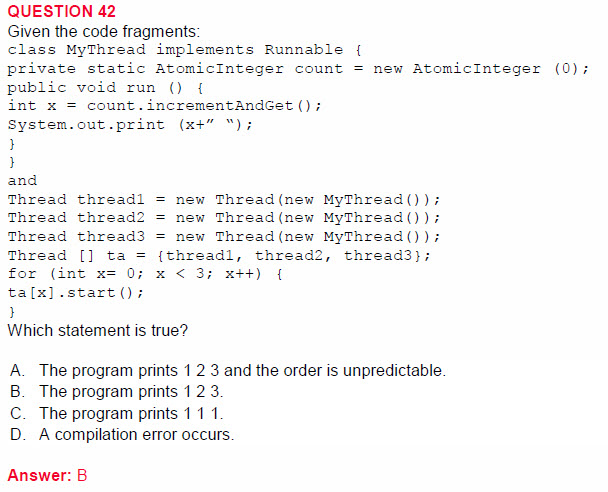
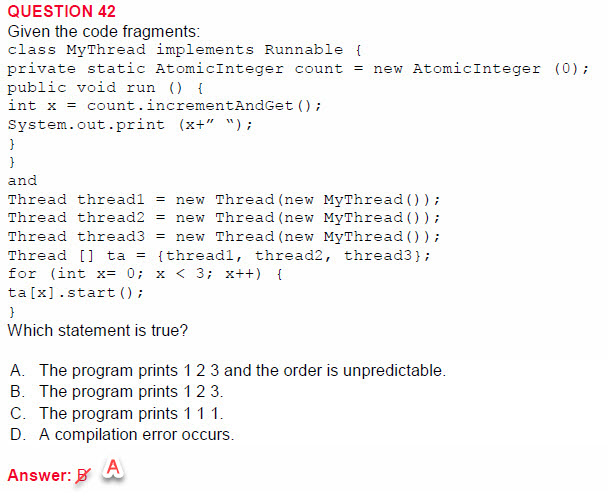
Commit 12

diff --git a/src/main/java/com/wealth/certificate/dumps_1z0_809_ps/question014/Emp.java b/src/main/java/com/wealth/certificate/dumps_1z0_809_ps/question014/Emp.java
@@ -1,0 +1,39 @@
+package com.wealth.certificate.dumps_1z0_809_ps.question014;
+
+import java.util.Arrays;
+import java.util.Comparator;
+import java.util.List;
+import java.util.stream.Collectors;
+
+public class Emp
+{
+	String fName;
+	String lName;
+	public Emp (String fn, String ln) {
+		fName = fn;
+		lName = ln;
+	}
+	public String getfName() { return fName; }
+	public String getlName() { return lName; }
+	
+	public static void main(String[] args)
+	{
+		List<Emp> emp = Arrays.asList (
+			new Emp ("John", "Smith"),
+			new Emp ("Peter", "Sam"),
+			new Emp ("Thomas", "Wale"));
+		
+		emp.stream()
+		
+		//line n1
+		/*A.*/ .sorted (Comparator.comparing(Emp::getfName).reversed().thenComparing(Emp::getlName))
+		/*B.*/ //.sorted (Comparator.comparing(Emp::getfName).thenComparing(Emp::getlName))
+		/*C.*/ //.map(Emp::getfName).sorted(Comparator.reverseOrder())
+		/*D.*/ //.map(Emp::getfName).sorted(Comparator.reverseOrder().map(Emp::getlName).reserved
+		
+		.collect(Collectors.toList());
+
+		/** Answered : A is correct **/
+	}
+
+}

diff --git a/src/main/java/com/wealth/certificate/dumps_1z0_809_ps/question042/Test.java b/src/main/java/com/wealth/certificate/dumps_1z0_809_ps/question042/Test.java
@@ -1,0 +1,27 @@
+package com.wealth.certificate.dumps_1z0_809_ps.question042;
+
+import java.util.concurrent.atomic.AtomicInteger;
+
+class MyThread implements Runnable {
+	private static AtomicInteger count = new AtomicInteger (0);
+	public void run () {
+		int x = count.incrementAndGet();
+		System.out.print (x+" ");
+	}
+}
+
+public class Test
+{
+	public static void main(String[] args)
+	{
+		Thread thread1 = new Thread(new MyThread());
+		Thread thread2 = new Thread(new MyThread());
+		Thread thread3 = new Thread(new MyThread());
+		Thread [] ta = {thread1, thread2, thread3};
+		for (int x= 0; x < 3; x++) {
+			ta[x].start();
+		}
+		
+		/** Answered : B is incorrect, Correct is A print but not ordering because asynchronize thread. **/
+	}
+}

diff --git a/src/main/java/com/wealth/certificate/dumps_1z0_809_ps/question056/Foo.java b/src/main/java/com/wealth/certificate/dumps_1z0_809_ps/question056/Foo.java
@@ -1,6 +1,9 @@
-Question No : 56 (Duplicate 1z0-809 Question 78)
+package com.wealth.certificate.dumps_1z0_809_ps.question056;
 
-Given the code fragment:
+import java.util.Comparator;
+import java.util.HashMap;
+import java.util.Map;
+import java.util.TreeMap;
 
 public class Foo {
 	public static void main (String [ ] args) {
@@ -16,15 +19,8 @@ public class Foo {
 					treeMap.putAll (unsortMap);
 					for (Map.Entry<Integer, String> entry : treeMap.entrySet () ) {
 						System.out.print (entry.getValue () + " ");
-					}
-			}
+		}
+
+		/** Answered : C is correct. **/
 	}
-
-What is the result?
-
-A. A compilation error occurs
-B. d b e z j
-C. j z e b d
-D. z b d e j
-
-Answer: C
+}

diff --git a/src/main/java/com/wealth/certificate/dumps_1z0_809_ps/question028/Test.java b/src/main/java/com/wealth/certificate/dumps_1z0_809_ps/question028/Test.java
@@ -1,0 +1,29 @@
+package com.wealth.certificate.dumps_1z0_809_ps.question028;
+
+import java.util.Set;
+import java.util.TreeSet;
+
+class Vehicle {
+	int vno;
+	String name;
+	public Vehicle (int vno, String name) {
+		this.vno = vno;
+		this.name = name;
+	}
+	public String toString () {
+		return vno + ":" + name;
+	}
+}
+
+public class Test
+{
+	public static void main(String[] args)
+	{
+		Set<Vehicle> vehicles = new TreeSet <> ();
+		vehicles.add(new Vehicle (10123, "Ford"));
+		vehicles.add(new Vehicle (10124, "BMW"));
+		System.out.println(vehicles);
+		
+		/** Answered : B is incorrect, Correct is D because using TreeSet so Vehicle must implements Comparable. **/
+	}
+}
